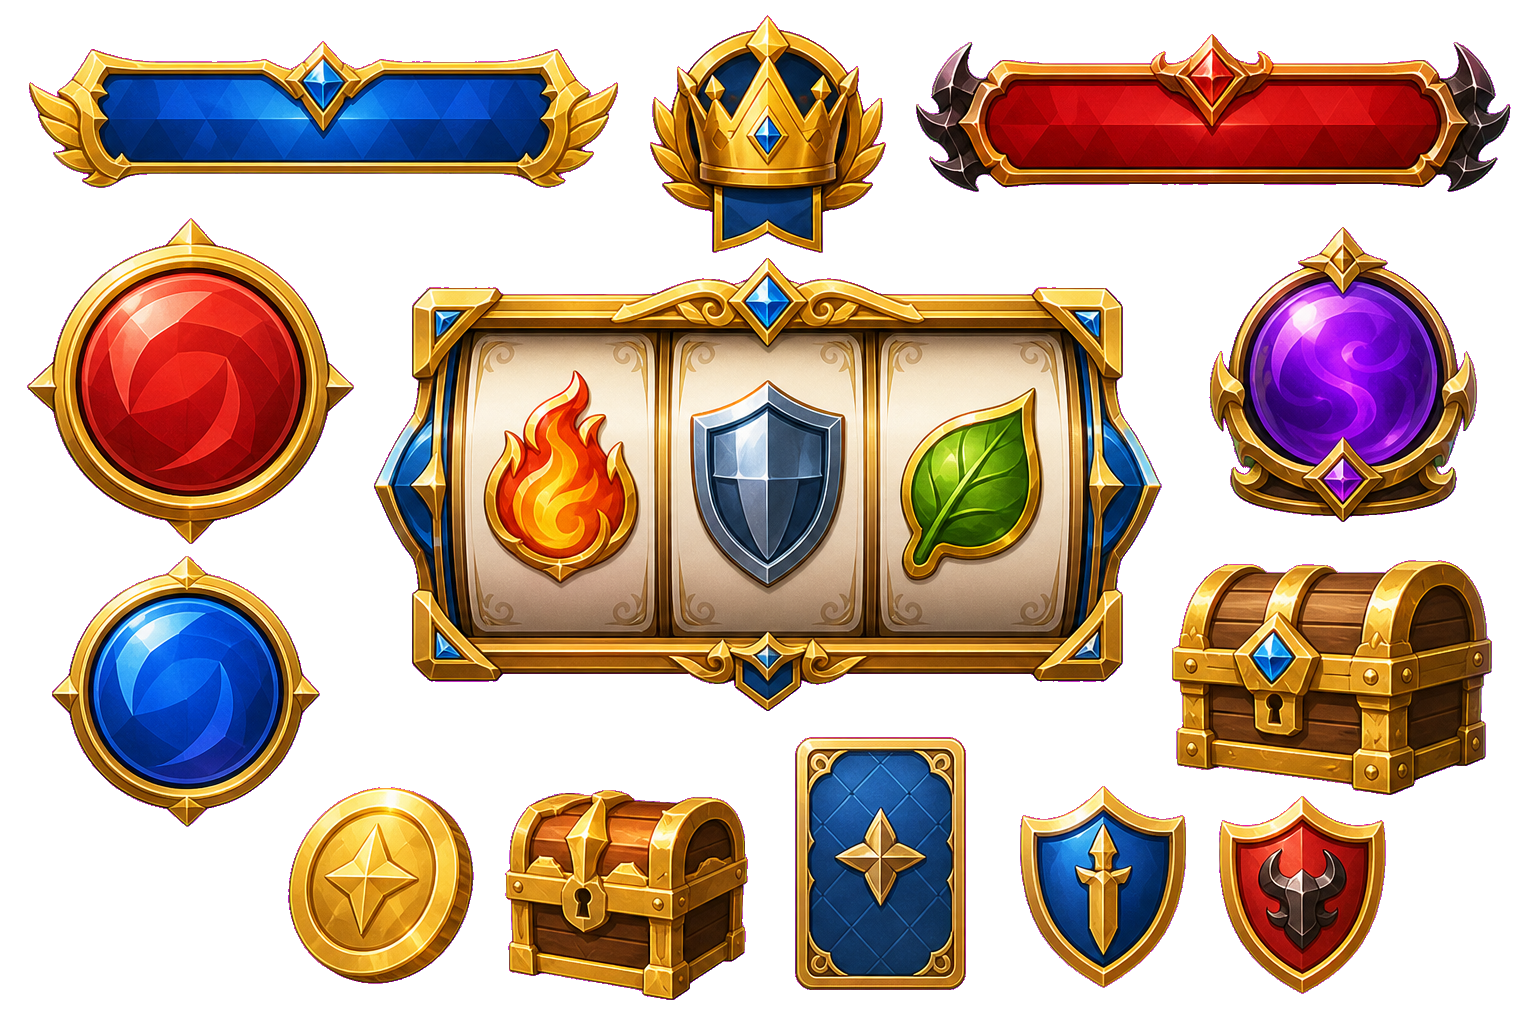
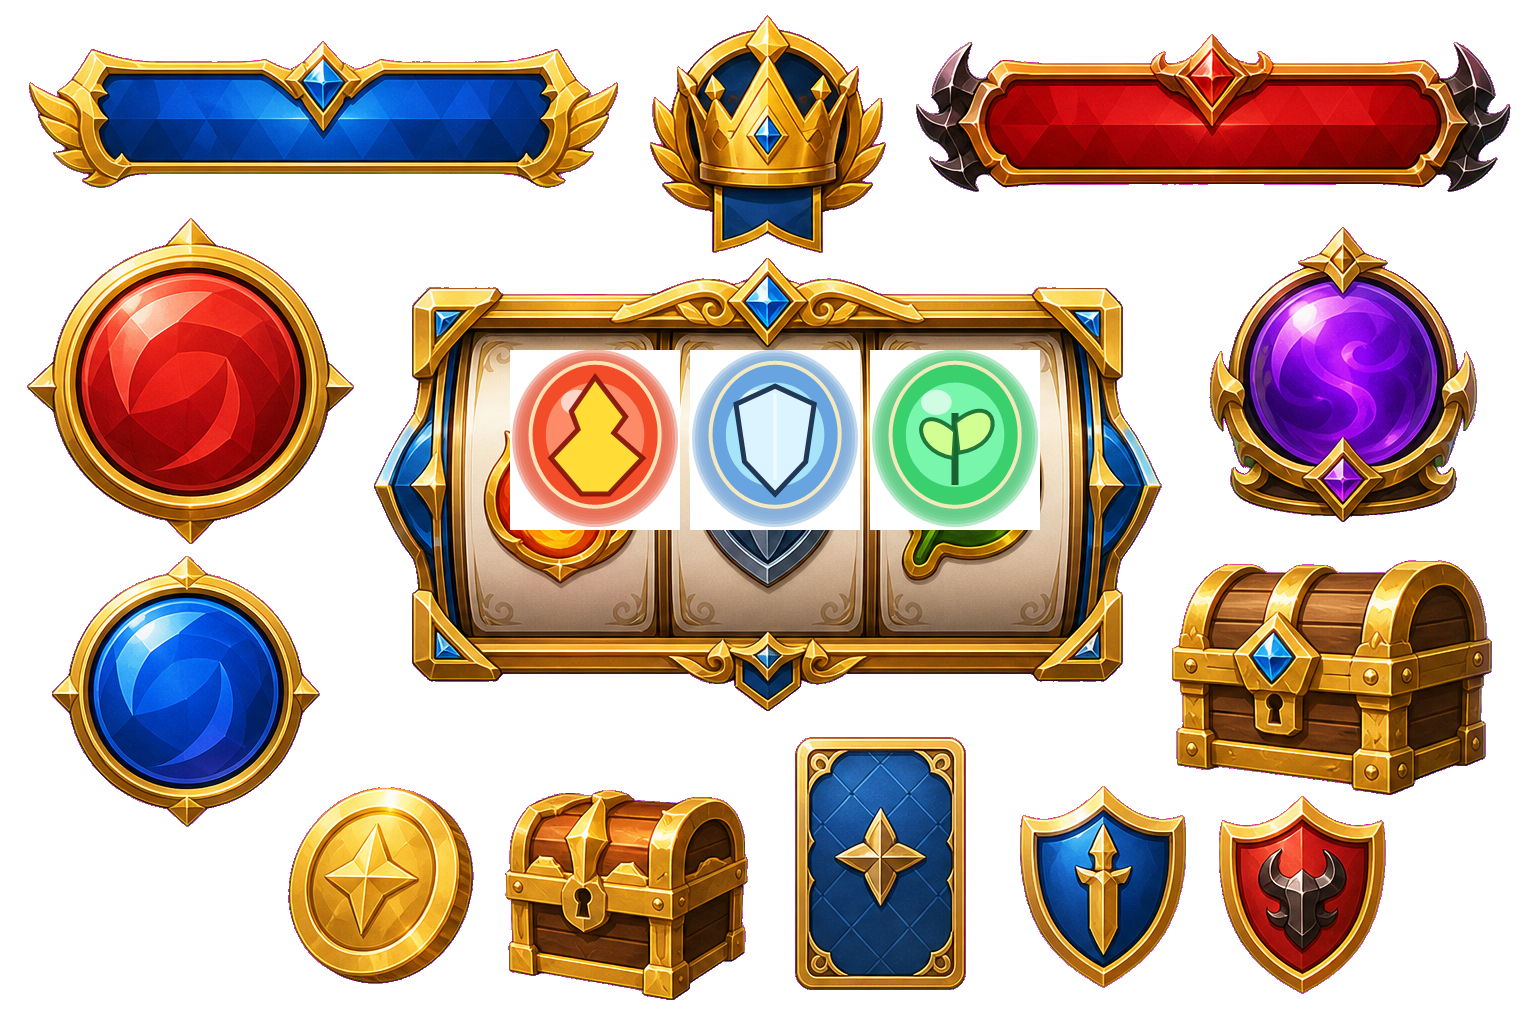
feat: improve LotteryFantasy spin feedback

Changed region(s): [[0.3125, 0.3438, 0.6875, 0.5312]]

diff --git a/Assets/Editor/LotteryFantasyEditModeTestRunner.cs b/Assets/Editor/LotteryFantasyEditModeTestRunner.cs
@@ -1,0 +1,105 @@
+using System;
+using System.IO;
+using UnityEditor;
+using UnityEditor.TestTools.TestRunner.Api;
+using UnityEngine;
+
+public static class LotteryFantasyEditModeTestRunner
+{
+    private const string DefaultResultPath = "C:/Development/14_LT/LotteryFantasy/TestResults-LotteryFantasy-EditMode.xml";
+
+    public static void RunEnergyFeedbackTests()
+    {
+        string resultPath = GetArgumentValue("-lfTestResults", DefaultResultPath);
+        string filter = GetArgumentValue("-lfTestFilter", "ElementalEnergySystemTests");
+
+        var callbacks = new ResultCallbacks(resultPath);
+        var api = ScriptableObject.CreateInstance<TestRunnerApi>();
+        api.RegisterCallbacks(callbacks);
+
+        var settings = new ExecutionSettings(new Filter
+        {
+            testMode = TestMode.EditMode,
+            groupNames = new[] { filter }
+        })
+        {
+            runSynchronously = true
+        };
+
+        Debug.Log("[LotteryFantasyTestRunner] Starting EditMode tests with filter: " + filter);
+        api.Execute(settings);
+        api.UnregisterCallbacks(callbacks);
+        UnityEngine.Object.DestroyImmediate(api);
+
+        if (!callbacks.Finished)
+        {
+            Debug.LogError("[LotteryFantasyTestRunner] Test run did not finish.");
+            EditorApplication.Exit(2);
+            return;
+        }
+
+        Debug.Log("[LotteryFantasyTestRunner] " + callbacks.Summary);
+        EditorApplication.Exit(callbacks.FailCount == 0 ? 0 : 1);
+    }
+
+    private static string GetArgumentValue(string name, string fallback)
+    {
+        string[] args = Environment.GetCommandLineArgs();
+        for (int i = 0; i < args.Length - 1; i++)
+        {
+            if (args[i] == name)
+                return args[i + 1];
+        }
+
+        return fallback;
+    }
+
+    private sealed class ResultCallbacks : ICallbacks
+    {
+        private readonly string _resultPath;
+
+        public bool Finished { get; private set; }
+        public int FailCount { get; private set; }
+        public string Summary { get; private set; }
+
+        public ResultCallbacks(string resultPath)
+        {
+            _resultPath = resultPath;
+        }
+
+        public void RunStarted(ITestAdaptor testsToRun)
+        {
+            Debug.Log("[LotteryFantasyTestRunner] RunStarted: " + testsToRun.FullName + " cases=" + testsToRun.TestCaseCount);
+        }
+
+        public void RunFinished(ITestResultAdaptor result)
+        {
+            Finished = true;
+            FailCount = result.FailCount;
+            Summary = string.Format(
+                "RunFinished: passed={0} failed={1} skipped={2} inconclusive={3} asserts={4} duration={5:0.000}s result={6}",
+                result.PassCount,
+                result.FailCount,
+                result.SkipCount,
+                result.InconclusiveCount,
+                result.AssertCount,
+                result.Duration,
+                result.ResultState);
+
+            string directory = Path.GetDirectoryName(_resultPath);
+            if (!string.IsNullOrEmpty(directory))
+                Directory.CreateDirectory(directory);
+
+            File.WriteAllText(_resultPath, result.ToXml().OuterXml);
+            Debug.Log("[LotteryFantasyTestRunner] Wrote XML: " + _resultPath);
+        }
+
+        public void TestStarted(ITestAdaptor test) { }
+
+        public void TestFinished(ITestResultAdaptor result)
+        {
+            if (!result.Test.IsSuite)
+                Debug.Log("[LotteryFantasyTestRunner] TestFinished: " + result.FullName + " => " + result.ResultState);
+        }
+    }
+}

diff --git a/Assets/Scripts/UI/HandUI.cs b/Assets/Scripts/UI/HandUI.cs
@@ -78,6 +78,8 @@ namespace SlotDefense
                     string skillAction = skillSelected
                         ? "\n<color=#FFD66B>> CAST TARGET</color>"
                         : "\n<color=#B98CFF>[CLICK CAST]</color>";
+                    if (!canAfford)
+                        skillAction = "\n" + MissingCostLine(energy, ec);
                     cardNames[i].text = $"<color=#C377FF><b>MAGIC</b></color>\n<b>{card.cardName}</b>{skillAction}";
                     bgColor = UIStyle.CardBackground(CardType.Skill, canAfford, skillSelected);
                 }
@@ -88,7 +90,9 @@ namespace SlotDefense
                     bool canAfford = energy.CanAfford(ec);
                     canUse = canAfford;
 
-                    string action = isSelected ? "\n<color=#88FFCC>> DEPLOY</color>" : "";
+                    string action = canAfford
+                        ? isSelected ? "\n<color=#88FFCC>> DEPLOY</color>" : ""
+                        : "\n" + MissingCostLine(energy, ec);
                     string typeLabel = card.cardType == CardType.Building
                         ? "<color=#D8E8FF><b>BUILD</b></color>"
                         : "<color=#6BD5FF><b>UNIT</b></color>";
@@ -194,6 +198,18 @@ namespace SlotDefense
             valueText.raycastTarget = false;
 
             return new CostBadge(root, iconImage, valueText, element);
+        }
+
+        private static string MissingCostLine(ElementalEnergySystem energy, ElementalCost cost)
+        {
+            var missing = ElementalEnergySystem.MissingCost(energy, cost);
+            if (missing.IsZero) return "<color=#88FFCC>READY</color>";
+
+            var parts = new List<string>(3);
+            if (missing.fire > 0) parts.Add("F" + missing.fire);
+            if (missing.iron > 0) parts.Add("I" + missing.iron);
+            if (missing.life > 0) parts.Add("L" + missing.life);
+            return "<color=#FF6F66><b>NEED " + string.Join(" ", parts) + "</b></color>";
         }
 
         private void UpdateCostBadges(int index, CardData card, ElementalEnergySystem energy)

diff --git a/Assets/Scripts/UI/SlotMachineUI.cs b/Assets/Scripts/UI/SlotMachineUI.cs
@@ -382,7 +382,9 @@ namespace SlotDefense
                 yield return new WaitUntil(() => !_reelLanding[0] && !_reelLanding[1] && !_reelLanding[2]);
 
                 _showingResult = true;
+                var spinReels = GameManager.Instance.PendingReels;
                 var energy = GameManager.Instance.PendingEnergy;
+                var advice = SpinOutcomeAdvisor.Describe(spinReels, energy);
                 GameManager.Instance.CommitSpin();
 
                 var parts = new List<string>();
@@ -391,17 +393,16 @@ namespace SlotDefense
                 if (energy.life > 0) parts.Add($"LIFE x{energy.life}");
                 if (resultText != null)
                 {
-                    resultText.text = string.Join("  ", parts);
-                    resultText.color = WhiteColor;
-                    resultText.fontSize = 24;
+                    string energyLine = string.Join("  ", parts);
+                    resultText.text = $"{advice.Headline}\n{energyLine}\n{advice.Change}\n{advice.NextDecision}";
+                    resultText.color = advice.Tone == SpinOutcomeTone.Jackpot ? GoldColor : WhiteColor;
+                    resultText.fontSize = advice.Tone == SpinOutcomeTone.Risky ? 21 : 24;
                 }
 
-                bool isTriple = energy.fire >= 6 || energy.iron >= 6 || energy.life >= 6;
-                if (isTriple)
+                if (advice.Tone == SpinOutcomeTone.Jackpot)
                 {
                     if (resultText != null)
                     {
-                        resultText.text = "JACKPOT!\n" + resultText.text;
                         resultText.color = GoldColor;
                         resultText.fontSize = 36;
                     }
@@ -493,3 +494,4 @@ namespace SlotDefense
         }
     }
 }
+

diff --git a/Assets/Tests/EditMode/ElementalEnergySystemTests.cs b/Assets/Tests/EditMode/ElementalEnergySystemTests.cs
@@ -58,4 +58,41 @@ public class ElementalEnergySystemTests
         Assert.IsFalse(sys.TryConsume(new ElementalCost(2, 0, 0)));
         Assert.AreEqual(1, sys.Fire);
     }
+
+    [Test]
+    public void MissingCost_ReturnsOnlyResourcesBelowRequirement()
+    {
+        var sys = new ElementalEnergySystem();
+        sys.Add(1, 3, 0);
+
+        var missing = sys.MissingCost(new ElementalCost(3, 2, 2));
+
+        Assert.AreEqual(2, missing.fire);
+        Assert.AreEqual(0, missing.iron);
+        Assert.AreEqual(2, missing.life);
+    }
+
+    [Test]
+    public void MissingCost_ReturnsZeroWhenAffordable()
+    {
+        var sys = new ElementalEnergySystem();
+        sys.Add(3, 3, 3);
+
+        var missing = sys.MissingCost(new ElementalCost(1, 2, 3));
+
+        Assert.AreEqual(0, missing.fire);
+        Assert.AreEqual(0, missing.iron);
+        Assert.AreEqual(0, missing.life);
+        Assert.AreEqual(0, missing.Total);
+    }
+
+    [Test]
+    public void MissingCost_HandlesNullEnergyByReportingFullCost()
+    {
+        var missing = ElementalEnergySystem.MissingCost(null, new ElementalCost(2, 0, 4));
+
+        Assert.AreEqual(2, missing.fire);
+        Assert.AreEqual(0, missing.iron);
+        Assert.AreEqual(4, missing.life);
+    }
 }

diff --git a/Assets/Scripts/UI/CardDragHandler.cs b/Assets/Scripts/UI/CardDragHandler.cs
@@ -75,7 +75,11 @@ namespace SlotDefense
 
             if (card.cardType == CardType.Skill)
             {
-                if (!GameManager.Instance.ElementalEnergy.TryConsume(card.ElementalCost)) return;
+                if (!GameManager.Instance.ElementalEnergy.TryConsume(card.ElementalCost))
+                {
+                    EnergyHUD.Instance?.FlashInsufficient(card.ElementalCost);
+                    return;
+                }
                 GameManager.Instance.Hand.Use(slotIndex);
                 GameManager.Instance.UseSkill(card.skillEffect, world);
                 return;
@@ -84,7 +88,11 @@ namespace SlotDefense
             if (card.cardType != CardType.Unit) return;
             if (world.x > -0.5f) return;
 
-            if (!GameManager.Instance.ElementalEnergy.TryConsume(card.ElementalCost)) return;
+            if (!GameManager.Instance.ElementalEnergy.TryConsume(card.ElementalCost))
+            {
+                EnergyHUD.Instance?.FlashInsufficient(card.ElementalCost);
+                return;
+            }
             GameManager.Instance.Hand.Use(slotIndex);
             world.x = Mathf.Min(world.x, -0.5f);
             var prefab = card.unitPrefab != null ? card.unitPrefab : arenaSystem.unitPrefab;

diff --git a/Assets/Scripts/Systems/ElementalEnergySystem.cs b/Assets/Scripts/Systems/ElementalEnergySystem.cs
@@ -30,6 +30,20 @@ namespace SlotDefense
         public bool CanAfford(ElementalCost cost) =>
             _fire >= cost.fire && _iron >= cost.iron && _life >= cost.life;
 
+        public ElementalCost MissingCost(ElementalCost cost) => MissingCost(this, cost);
+
+        public static ElementalCost MissingCost(ElementalEnergySystem energy, ElementalCost cost)
+        {
+            int fire = energy != null ? energy.Fire : 0;
+            int iron = energy != null ? energy.Iron : 0;
+            int life = energy != null ? energy.Life : 0;
+
+            return new ElementalCost(
+                Mathf.Max(0, cost.fire - fire),
+                Mathf.Max(0, cost.iron - iron),
+                Mathf.Max(0, cost.life - life));
+        }
+
         public bool TryConsume(ElementalCost cost)
         {
             if (!CanAfford(cost)) return false;

diff --git a/Assets/Tests/EditMode/SlotMachineOutcomeFeedbackTests.cs b/Assets/Tests/EditMode/SlotMachineOutcomeFeedbackTests.cs
@@ -1,0 +1,18 @@
+using System.IO;
+using NUnit.Framework;
+
+public class SlotMachineOutcomeFeedbackTests
+{
+    [Test]
+    public void SlotMachineUI_UsesSpinOutcomeAdvisorForResultCopy()
+    {
+        string path = Path.Combine(UnityEngine.Application.dataPath, "Scripts", "UI", "SlotMachineUI.cs");
+        string source = File.ReadAllText(path);
+
+        StringAssert.Contains("SpinOutcomeAdvisor.Describe", source);
+        StringAssert.Contains("advice.Headline", source);
+        StringAssert.Contains("advice.Change", source);
+        StringAssert.Contains("advice.NextDecision", source);
+        StringAssert.Contains("SpinOutcomeTone.Jackpot", source);
+    }
+}
